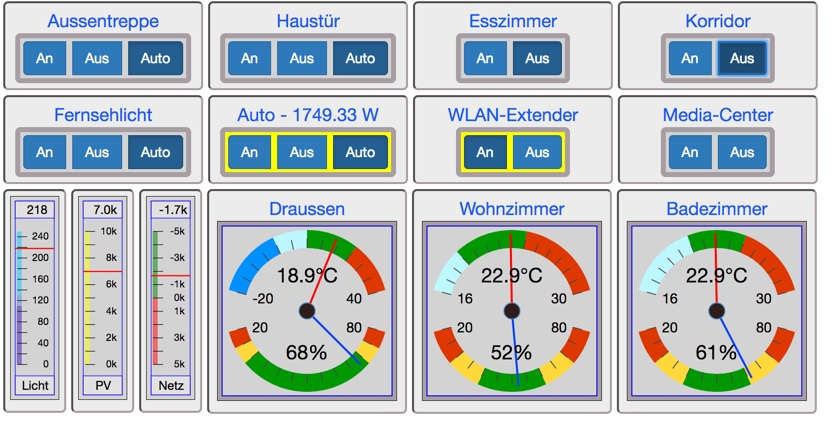
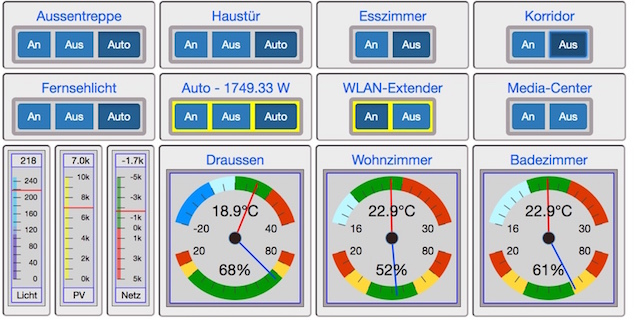
reduce image size

diff --git a/README.md b/README.md
@@ -1,5 +1,5 @@
 # homeview
-Simple frontend for an ioBroker based home controle and automation system.
+Simple frontend for an ioBroker based home control and automation system.
 
 ![Homeview](img/homeview_2017_09_23.jpg)
 ![solar](img/homeview_2017_09_25.jpg)
